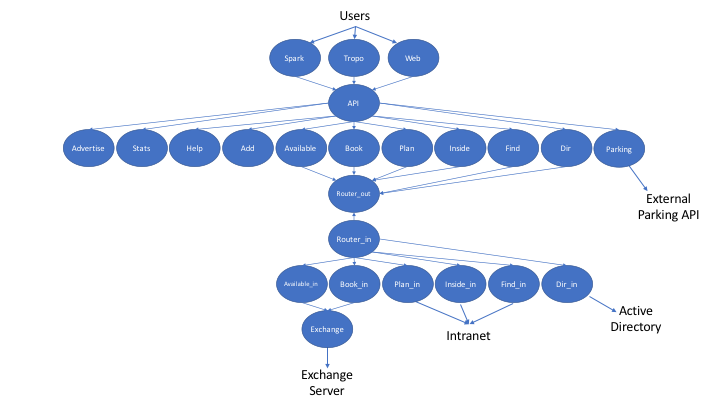
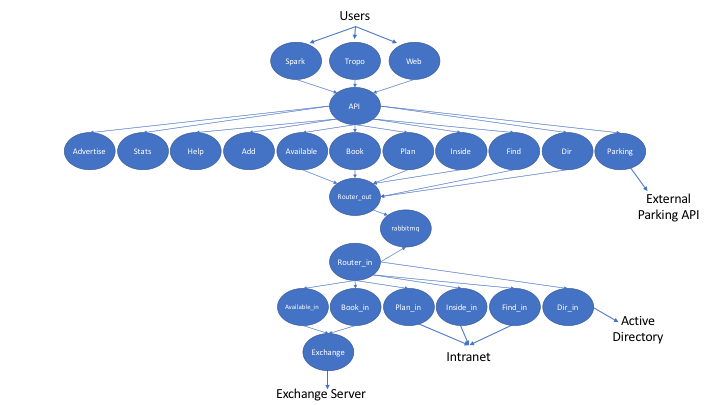
First test with router rabbit router_in

Changed region(s): [[0.0917, 0.0889, 0.9167, 1.0]]

diff --git a/out/router/src/router.py b/out/router/src/router.py
@@ -1,0 +1,77 @@
+#!/usr/bin/env python2.7
+
+from flask import Flask, request, Response
+import pika, os, json, uuid
+
+app = Flask(__name__)
+
+def on_response(ch, method, props, body):
+    global corr_id
+    global response
+    if corr_id == props.correlation_id:
+        response = body
+        return response
+    else:
+        return None
+
+def send_message_to_queue(message):
+    global corr_id
+    global response
+    global connection
+    global channel
+    global callback_queue
+
+    response=None
+    connection = pika.BlockingConnection(pika.ConnectionParameters(host=rabbitmq,port=int(rabbitmq_port),heartbeat_interval=30))  
+    channel = connection.channel()
+    result=channel.queue_declare(exclusive=True)
+    callback_queue = result.method.queue
+    channel.basic_consume(on_response, no_ack=True,
+                                   queue=callback_queue)
+    corr_id=str(uuid.uuid4())
+
+    response = None
+    corr_id =  str(uuid.uuid4())
+    channel.basic_publish(  exchange='',
+                            routing_key="rpc_queue",
+                            properties=pika.BasicProperties(
+                                         reply_to = callback_queue,
+                                         correlation_id = corr_id),
+                            body=message)
+
+    print(" [x] Sent data to RabbitMQ")   
+
+    while response is None:
+        connection.process_data_events()
+    print(" [x] Get response from RabbitMQ")   
+    return str(response)    
+
+@app.route('/')
+def index():
+    data = {  
+        "cmd": "test",         
+        "data": "send message for MQ"
+    }    
+    message = json.dumps(data)  
+    reply=send_message_to_queue(message)
+    return reply
+
+if __name__ == '__main__':
+    # Get MQ environment parameters to connect to RabbitMQ servers
+    rabbitmq = os.getenv("RABBITMQ_HOSTNAME")
+    if (rabbitmq == None):
+        rabbitmq = "localhost"
+
+    rabbitmq_port = os.getenv("RABBITMQ_PORT")
+    if (rabbitmq_port == None):
+        rabbitmq_port = "5672"
+
+    # Initialize MQ variables
+    corr_id=None
+    response=None
+    connection=None
+    channel=None
+    callback_queue=None
+
+    # Launch Flask web server
+    app.run(debug=True, host='0.0.0.0', port=int("5000"))

diff --git a/in/router_in/src/router.py b/in/router_in/src/router.py
@@ -1,0 +1,48 @@
+#!/usr/bin/env python2.7
+
+import pika, os, sys, json, requests
+import base64, urllib, unicodedata, re
+
+def on_request(ch, method, props, body):
+    sys.stderr.write(" [x] Received %r\n" % body)
+    #sys.stderr.write("Method: {}\n".format(method))     
+    #sys.stderr.write("Properties: {}\n".format(properties))     
+    data = json.loads(body)
+    cmd=data['cmd']
+    request_data=data["data"]
+    sys.stderr.write("Command: {}\n".format(cmd))     
+    sys.stderr.write("Data: {}\n".format(request_data))      
+
+    if cmd == "test":
+        txt="reply message for MQ"
+    elif cmd == "dir":
+        pass
+    else:
+        pass
+
+    ch.basic_publish(exchange='',
+                     routing_key=props.reply_to,
+                     properties=pika.BasicProperties(correlation_id = \
+                                                         props.correlation_id),
+                     body=str(txt))
+    ch.basic_ack(delivery_tag = method.delivery_tag)
+    return txt
+
+if __name__ == '__main__':
+    rabbitmq = os.getenv("RABBITMQ_HOSTNAME")
+    if (rabbitmq == None):
+        rabbitmq = "localhost"
+
+    rabbitmq_port = os.getenv("RABBITMQ_PORT")
+    if (rabbitmq_port == None):
+        rabbitmq_port = "5672"
+
+    sys.stderr.write("Connecting to "+rabbitmq+" on port "+rabbitmq_port+"\n")
+    connection = pika.BlockingConnection(pika.ConnectionParameters(
+        host=rabbitmq, port=int(rabbitmq_port) ))
+    channel = connection.channel()
+    channel.queue_declare(queue='rpc_queue')
+    channel.basic_qos(prefetch_count=1)
+    channel.basic_consume(on_request, queue='rpc_queue')
+    sys.stderr.write(' [*] Waiting for messages. To exit press CTRL+C\n')
+    channel.start_consuming()

diff --git a/README.md b/README.md
@@ -13,8 +13,8 @@ Requirements:
  - Access to Exchange Web Service (EWS) API of a Microsoft Exchange Server 2010 
 
 The application has to be deployed on at least 2 hosts with different network requirements:
- - one with network connectivity to Internet to host webhooks for Spark and Tropo
- - one with network connectivity to Exchange and directory servers
+ - at least one with network connectivity to Internet to host webhooks for Spark and Tropo (called out)
+ - at least one with network connectivity to Exchange, intranet and directory servers (called in)
 
 Here is the Roomfinder micro-services architecture:
 
